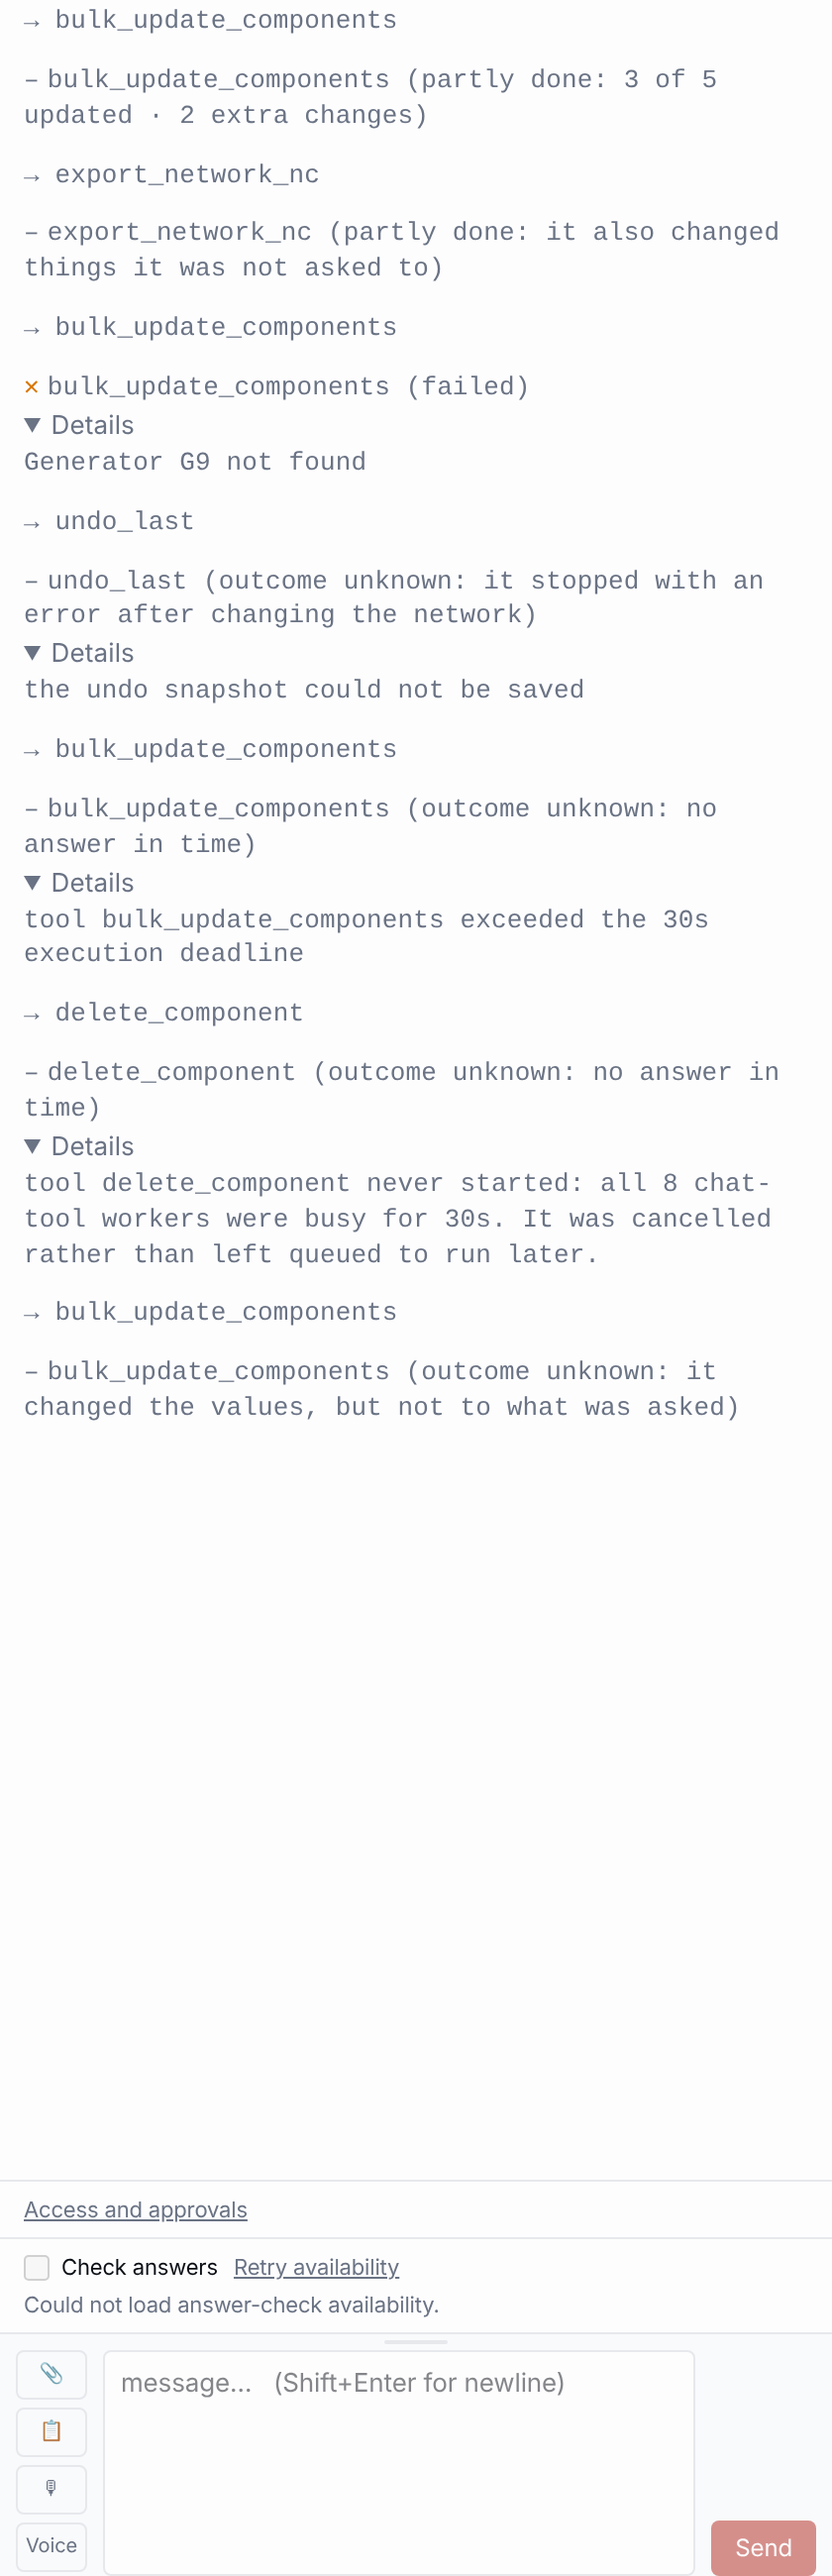
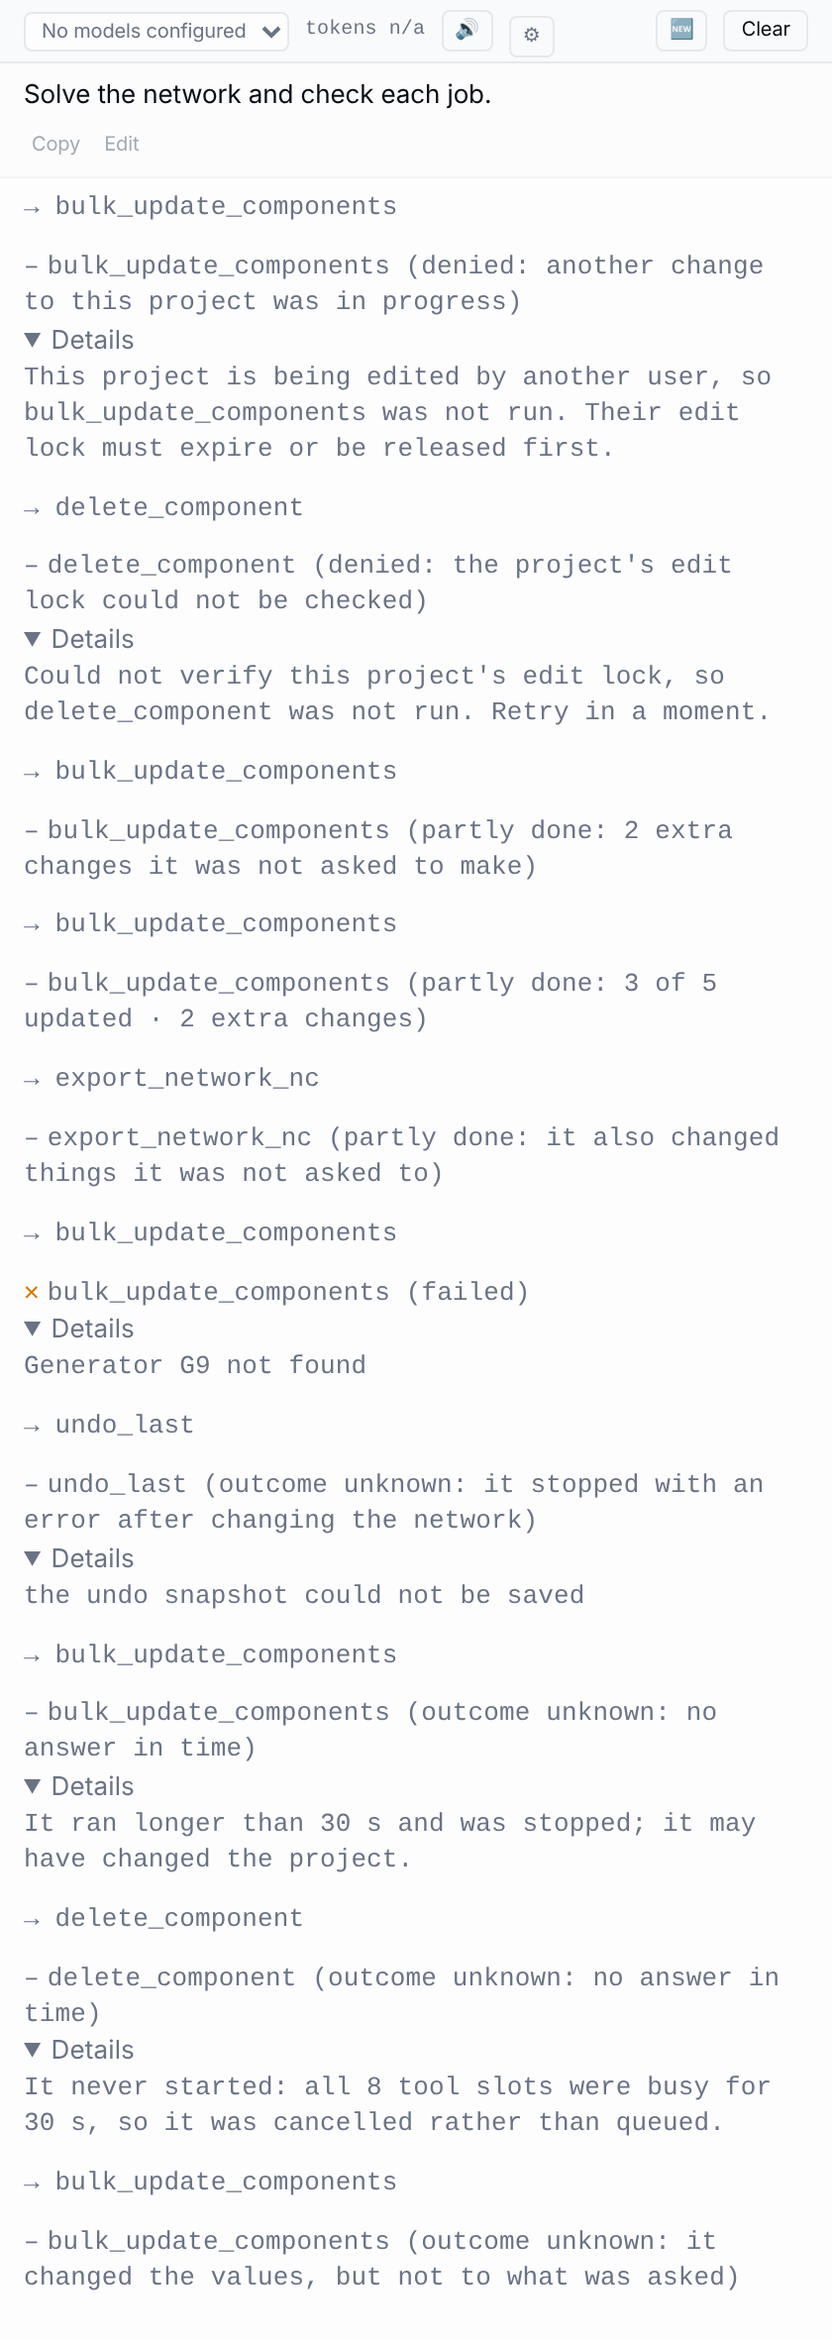
AA-04 S4b: UX (11) asks — plain timeout and not-started words in Details (no tool id; a read never says it may have changed the project), S4b shots show every state in both modes
Claude-Session: https://claude.ai/code/session_01G7qCuipGWQqSfGQ3VqXmWY

diff --git a/pypsa-gui/backend/tests/assurance_acceptance/test_p3_raise_and_extra.py b/pypsa-gui/backend/tests/assurance_acceptance/test_p3_raise_and_extra.py
@@ -440,6 +440,10 @@ def test_a_slow_write_that_changed_nothing_still_reads_uncertain_on_timeout(
     finally:
         release.set()
     assert error["error_kind"] == "tool_timeout"
+    # UX (11): plain words in Expert Details, no tool id.
+    assert error["message"] == (
+        "It ran longer than 0.2 s and was stopped; it may have changed the project."
+    )
     assert error["_outcome"] == {
         "version": 1,
         "outcome": "uncertain",
@@ -463,6 +467,11 @@ def test_a_write_that_never_started_reads_uncertain(
     monkeypatch.setattr(harness_budget, "PER_TOOL_TIMEOUT_SECONDS", 0.3)
     error = _error(_frames(monkeypatch, "bulk_update_components", UPDATE)[0])
     assert error["error_kind"] == "tool_not_started"
+    assert "bulk_update_components" not in error["message"]
+    assert error["message"].startswith("It never started: all ")
+    assert error["message"].endswith(
+        "tool slots were busy for 0.3 s, so it was cancelled rather than queued."
+    )
     assert error["_outcome"] == {
         "version": 1,
         "outcome": "uncertain",
@@ -889,6 +898,29 @@ def test_a_timeout_in_a_checked_turn_gets_no_ordinary_outcome(
         release.set()
     errors = [d for e, d in frames if e == "tool_error"]
     assert errors and errors[0]["error_kind"] == "tool_timeout", frames
+    assert "_outcome" not in errors[0]
+
+
+def test_a_read_that_times_out_does_not_say_it_may_have_changed_the_project(
+    baseline, monkeypatch
+):
+    import threading
+
+    from harness import budget as harness_budget
+    from harness import catalogue
+
+    tool = "list_components"
+    assert catalogue.safety_tier_for(tool) not in ("write", "destructive")
+    release = threading.Event()
+    monkeypatch.setitem(chat_tools.DISPATCHERS, tool, lambda **_kw: release.wait(10))
+    monkeypatch.setattr(harness_budget, "PER_TOOL_TIMEOUT_SECONDS", 0.2)
+    try:
+        frames, _c = _frames(monkeypatch, tool, {"component_class": "Generator"})
+    finally:
+        release.set()
+    errors = [d for e, d in frames if e == "tool_error"]
+    assert errors and errors[0]["error_kind"] == "tool_timeout", frames
+    assert errors[0]["message"] == "It ran longer than 0.2 s and was stopped."
     assert "_outcome" not in errors[0]
 
 

diff --git a/pypsa-gui/backend/harness/loop.py b/pypsa-gui/backend/harness/loop.py
@@ -3703,11 +3703,13 @@ def _dispatch_real_tool_call(
                             "tool_use_id": tool_use_id,
                             "tool_name": tool_name,
                             "error_kind": "tool_not_started",
+                            # Shown to the user in Expert Details (S4b, UX (11)):
+                            # no tool id, no internal terms.
                             "message": (
-                                f"tool {tool_name!r} never started: all "
-                                f"{TOOL_EXECUTOR_MAX_WORKERS} chat-tool workers were "
-                                f"busy for {harness_budget.PER_TOOL_TIMEOUT_SECONDS:g}s. "
-                                f"It was cancelled rather than left queued to run later."
+                                f"It never started: all {TOOL_EXECUTOR_MAX_WORKERS} "
+                                f"tool slots were busy for "
+                                f"{harness_budget.PER_TOOL_TIMEOUT_SECONDS:g} s, so it "
+                                f"was cancelled rather than queued."
                             ),
                             **_timeout_outcome(timeout_effect, "tool_not_started"),
                         },
@@ -3802,9 +3804,12 @@ def _dispatch_real_tool_call(
                         "tool_use_id": tool_use_id,
                         "tool_name": tool_name,
                         "error_kind": "tool_timeout",
+                        # Shown to the user in Expert Details (S4b, UX (11)).
                         "message": (
-                            f"tool {tool_name!r} exceeded the "
-                            f"{harness_budget.PER_TOOL_TIMEOUT_SECONDS:g}s execution deadline"
+                            f"It ran longer than "
+                            f"{harness_budget.PER_TOOL_TIMEOUT_SECONDS:g} s and was "
+                            f"stopped"
+                            + ("; it may have changed the project." if timeout_effect else ".")
                         ),
                         **_timeout_outcome(timeout_effect, "tool_timeout"),
                     },
